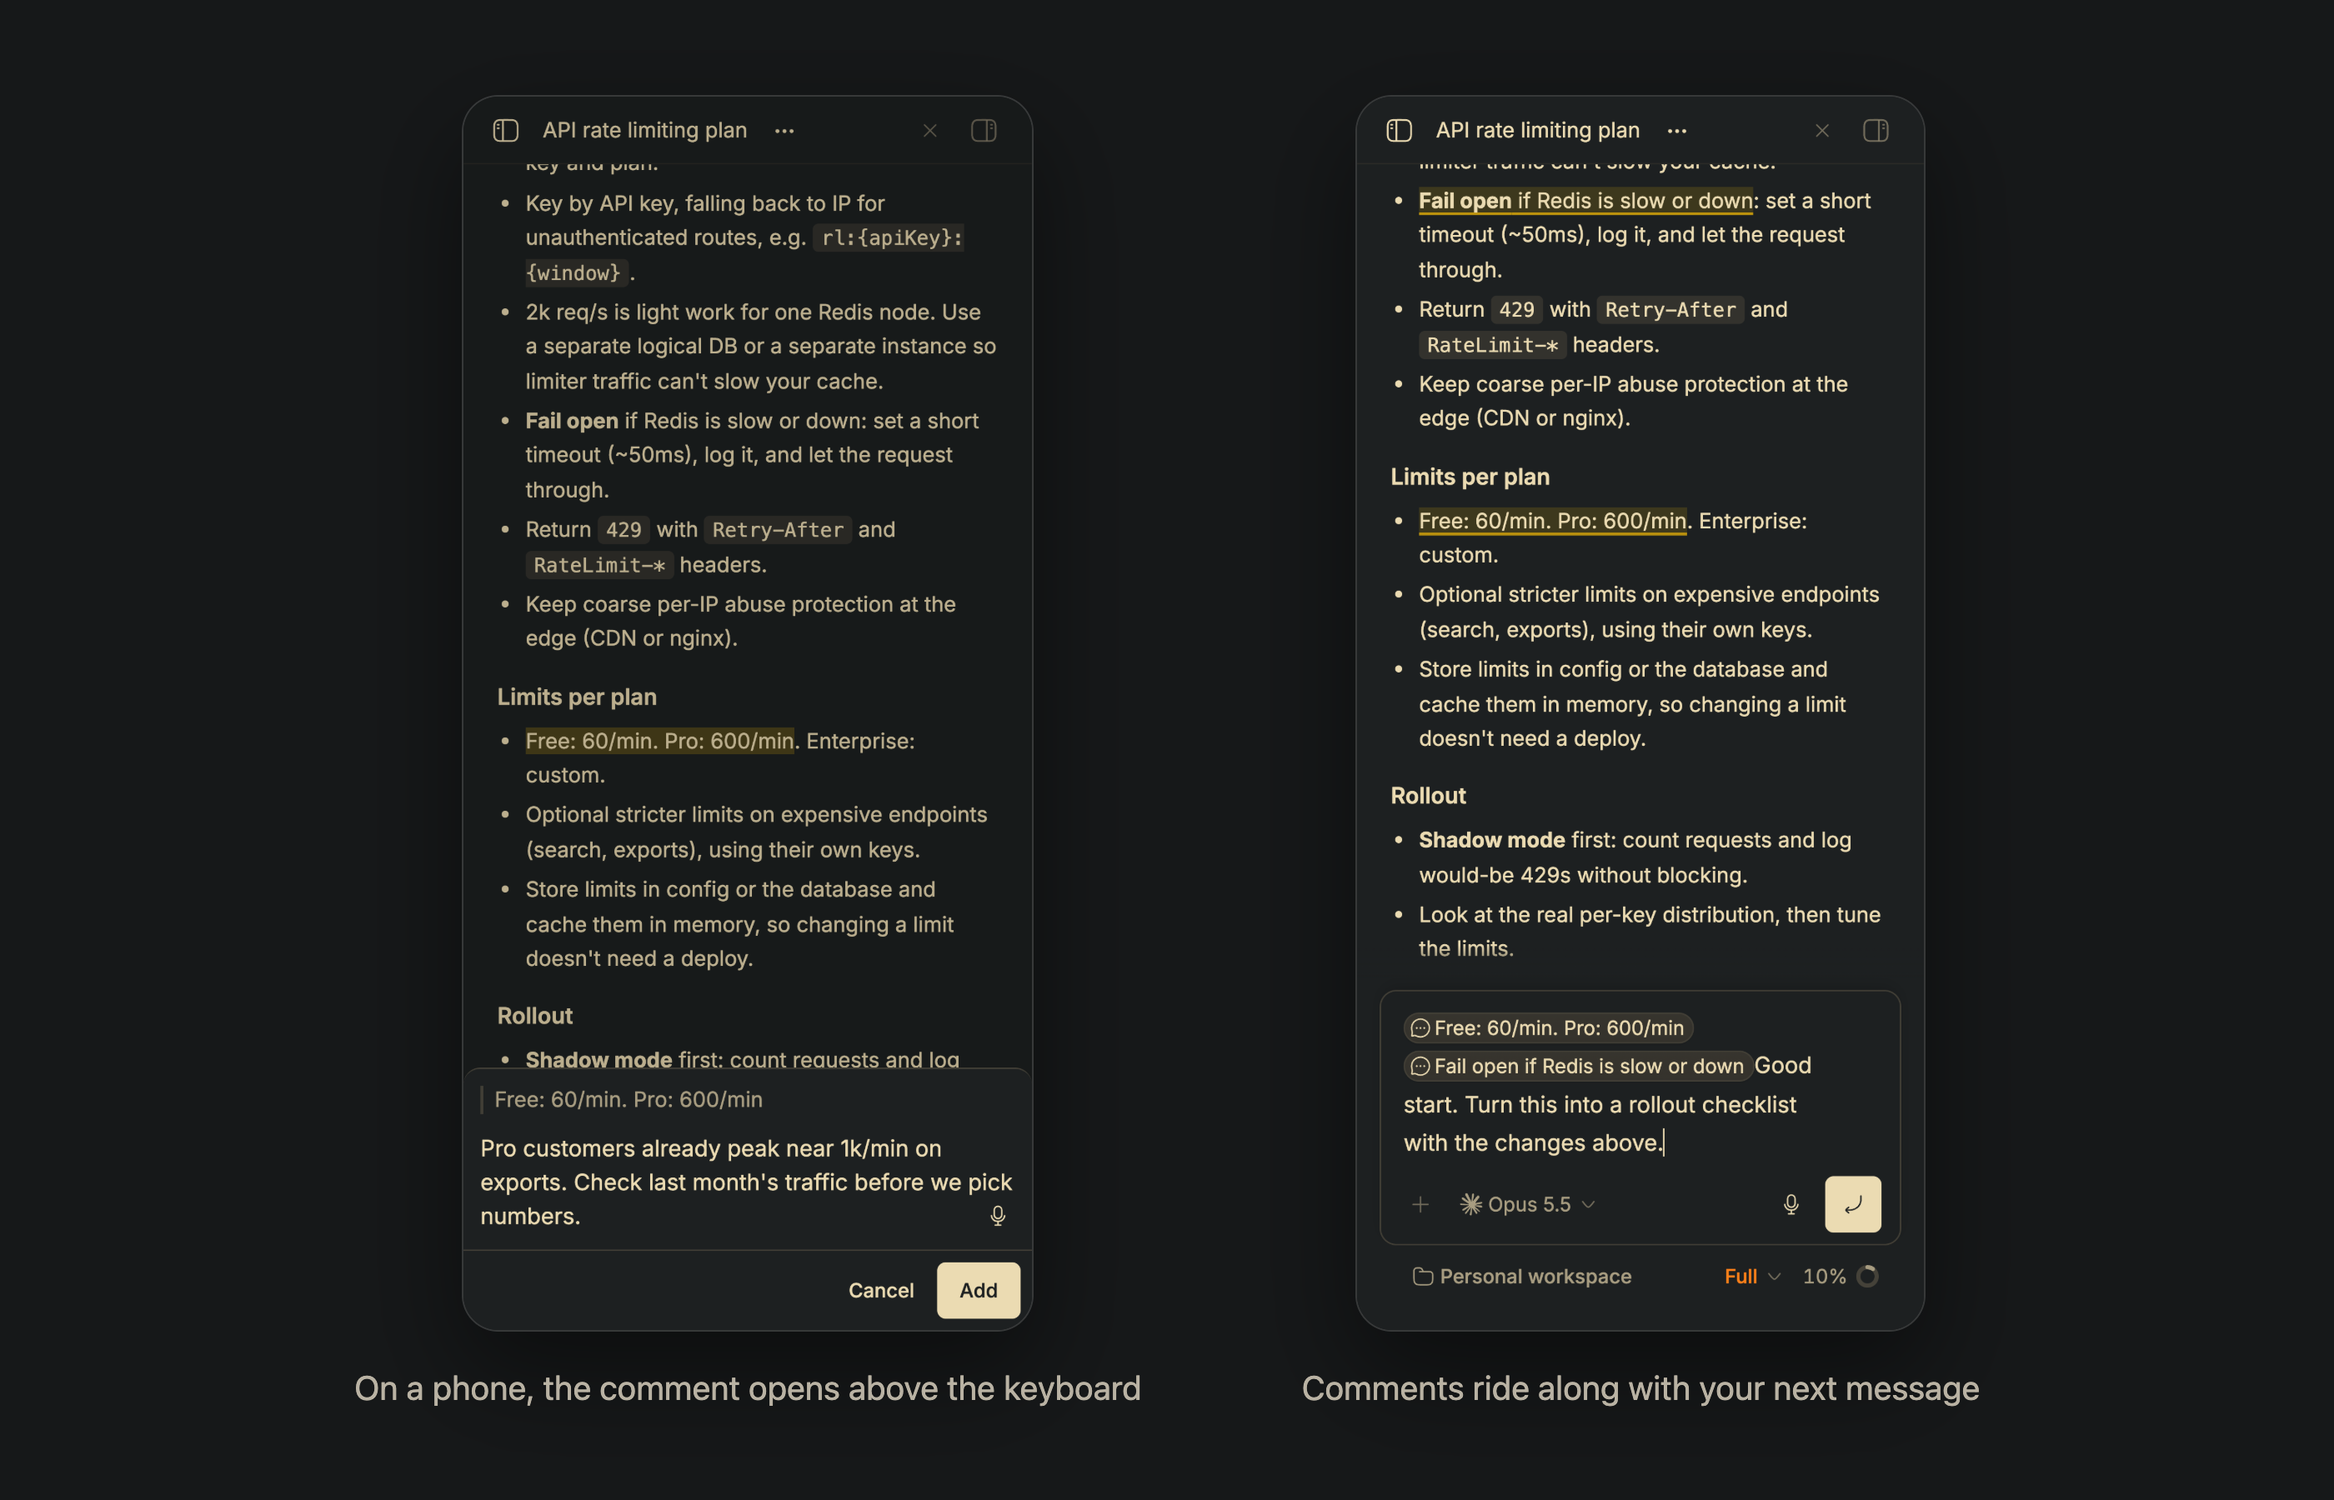
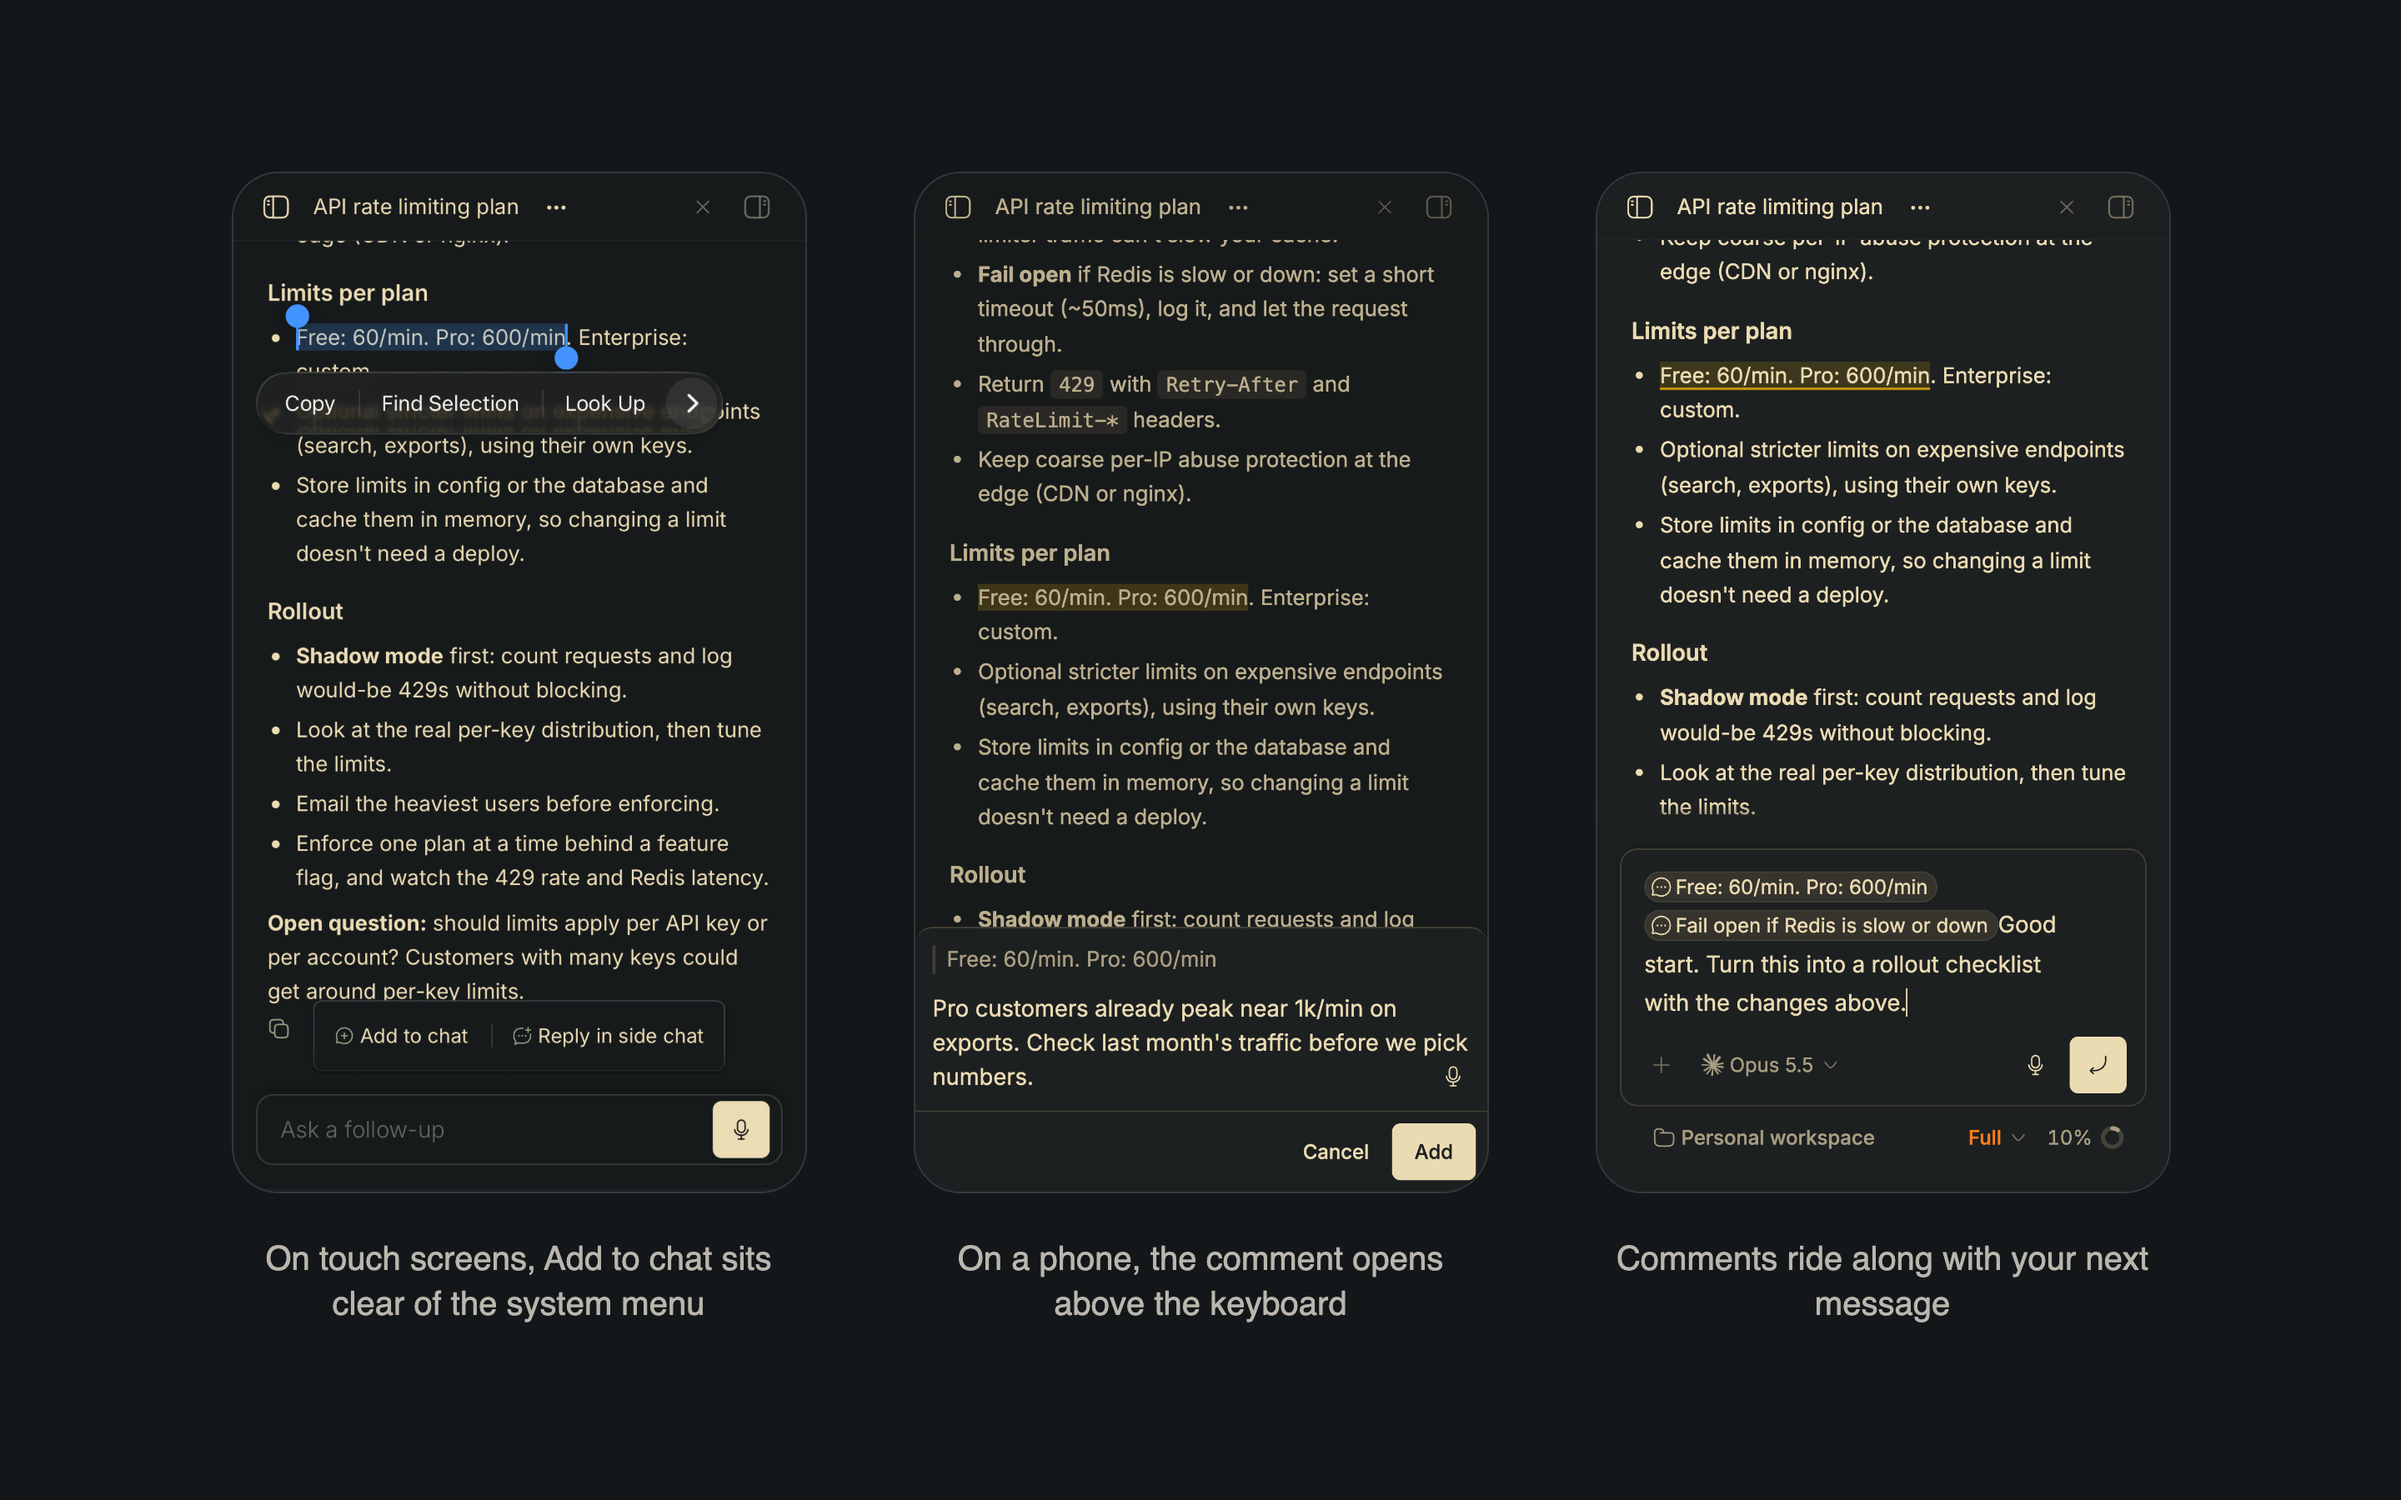
Show the docked selection menu in the mobile screenshot

diff --git a/README.md b/README.md
@@ -6,7 +6,7 @@ Comment on exact passages of an agent's reply, the way Claude Desktop and ChatGP
 
 ![Highlighted passages in the reply and their comment pills in the composer](screenshots/staged-comments.png)
 
-![On a phone the comment opens as a sheet above the keyboard](screenshots/mobile.png)
+![On a phone Add to chat sits above the composer, clear of the system menu, and the comment opens as a sheet above the keyboard](screenshots/mobile.png)
 
 ## Install
 
